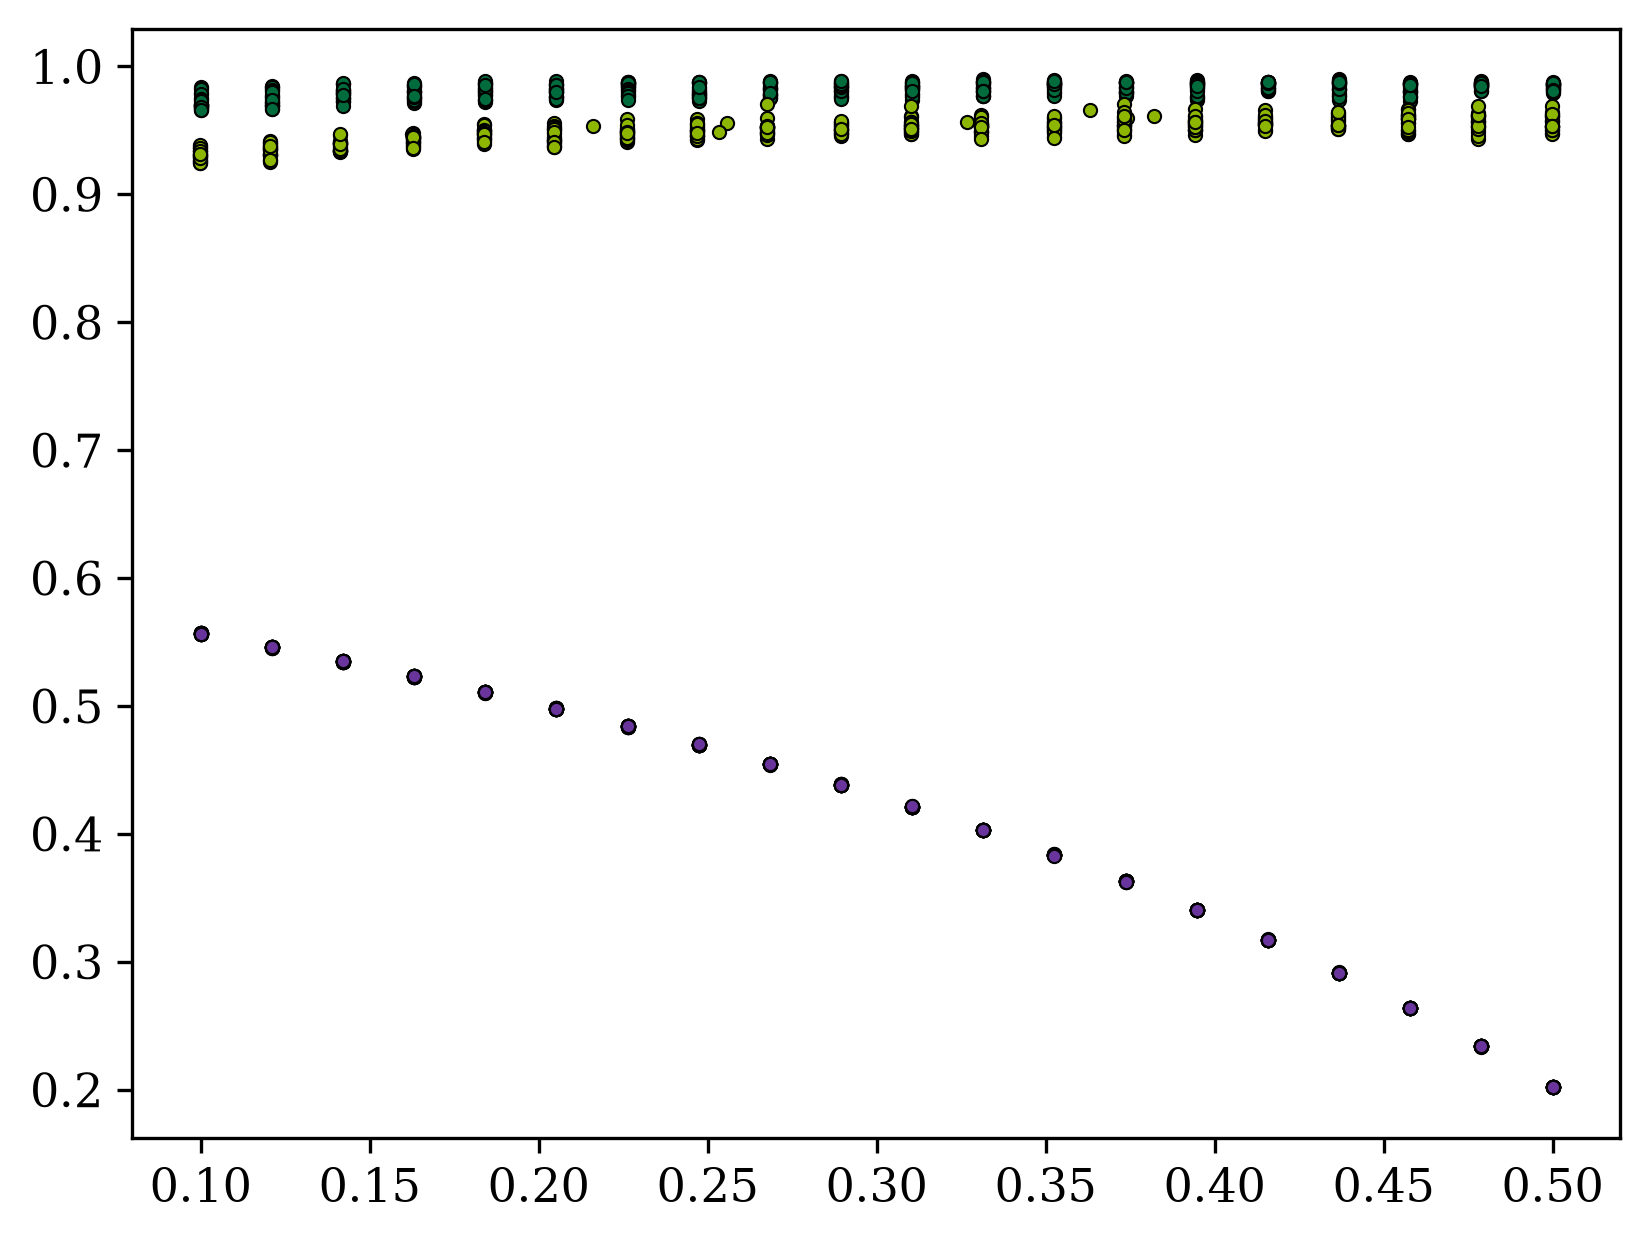
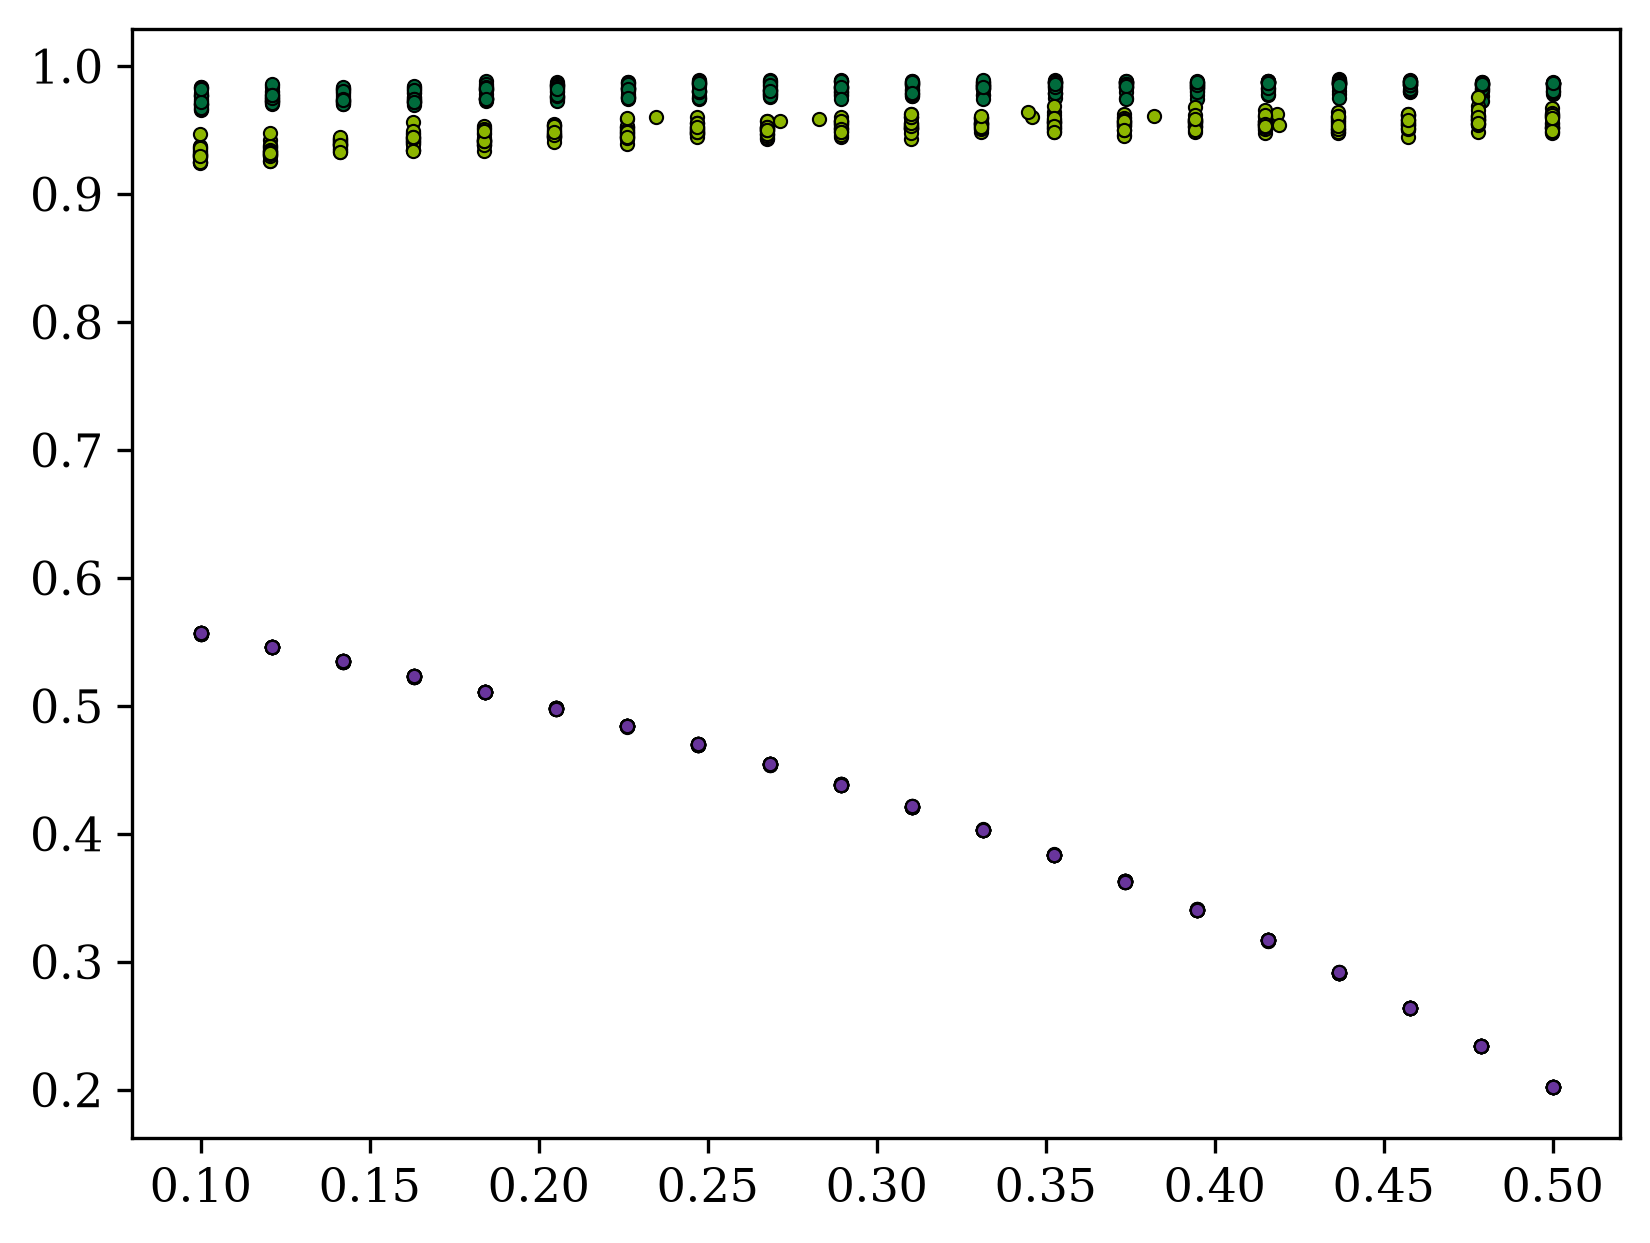
Iowa kcluster, must produce at least two clusters

diff --git a/experiment_code/iowa_scripts/make_kclustered_iowa_plots.py b/experiment_code/iowa_scripts/make_kclustered_iowa_plots.py
@@ -32,7 +32,7 @@ Global Parameters:
 """
 
 RHO = 0.3
-num_seeds = 10
+num_seeds = 4
 num_samples = 500
 num_rhos = 100
 
@@ -155,7 +155,7 @@ def populate_cluster_random(start_node, graph, target_x_pop):
     
     return graph, real_rho
 
-def generate_kclust_grid(graph, target_rho, num_seeds):
+def generate_kclust_grid(graph, target_rho, num_seeds, max_retries = 50):
     """
     Builds a k-cluster configuration by growing num_seeds independent BFS clusters, each targeting an equal share of the total x_pop budget, then computes the achieved rho and number of connected components.
     Parameters:
@@ -173,34 +173,39 @@ def generate_kclust_grid(graph, target_rho, num_seeds):
         components: int
             Number of connected components among the x_pop-carrying nodes
     """
+    for _ in range(max_retries):
+        for node in graph.nodes():
+            graph.nodes[node]["x_pop"] = 0
+            graph.nodes[node]["y_pop"] = 0
 
-    target_pop = target_rho * metrics.property_sum(graph, "TOTPOP") / num_seeds
+        target_pop = target_rho * metrics.property_sum(graph, "TOTPOP") / num_seeds
 
+        for _ in range(num_seeds):
+            y_nodes = [node for node in graph.nodes if graph.nodes[node]["x_pop"] == 0]
+            seed = random.choice(y_nodes)
 
-    for _ in range(num_seeds):
-        y_nodes = [node for node in graph.nodes if graph.nodes[node]["x_pop"] == 0]
-        seed = random.choice(y_nodes)
+            G, cluster_rho = populate_cluster_random(seed, graph, target_pop)
 
-        G, cluster_rho = populate_cluster_random(seed, graph, target_pop)
+        for node in G.nodes():
+            if G.nodes[node]["x_pop"] == 0:
+                G.nodes[node]["y_pop"] = g.nodes[node]["TOTPOP"]
+        
+        real_rho = (metrics.property_sum(G, "x_pop") / 
+                    (metrics.property_sum(G, "x_pop") + 
+                    metrics.property_sum(G, "y_pop")))
+        
+        x_nodes = [
+            node for node in G.nodes()
+            if G.nodes[node]["x_pop"] > 0
+            ]
 
-    for node in G.nodes():
-        if G.nodes[node]["x_pop"] == 0:
-            G.nodes[node]["y_pop"] = g.nodes[node]["TOTPOP"]
-    
-    real_rho = (metrics.property_sum(G, "x_pop") / 
-                (metrics.property_sum(G, "x_pop") + 
-                 metrics.property_sum(G, "y_pop")))
-    
-    x_nodes = [
-        node for node in G.nodes()
-        if G.nodes[node]["x_pop"] > 0
-        ]
+        H = G.subgraph(x_nodes)
 
-    H = G.subgraph(x_nodes)
+        components = nx.number_connected_components(H)
+        if components > 1:
+            return G, real_rho, components
 
-    components = nx.number_connected_components(H)
-
-    return G, real_rho, components
+    return nonde
 
 #loading iowa
 g = gerrychain.Graph.from_json("data/experiment_specific/ia_files/ia_counties_2020.json")
@@ -226,10 +231,12 @@ for _ in range(num_samples):
 
         nodes = list(g.nodes())
         seed = random.choice(nodes)
-        g_, real_rho, num_components = generate_kclust_grid(g, rho, num_seeds)
-        real_rhos.append(real_rho)
-        capys.append(metrics.half_edge(g_, "y_pop", "x_pop"))
-        morans.append(metrics.moran(g_, "x_pop", "TOTPOP")["moran_A"])
+        result = generate_kclust_grid(g, rho, num_seeds)
+        if result is not None:
+            g_, real_rho, num_components = result
+            real_rhos.append(real_rho)
+            capys.append(metrics.half_edge(g_, "y_pop", "x_pop"))
+            morans.append(metrics.moran(g_, "x_pop", "TOTPOP")["moran_A"])
 
 #plotting scatterplots
 plt.figure(figsize=(10, 10))
